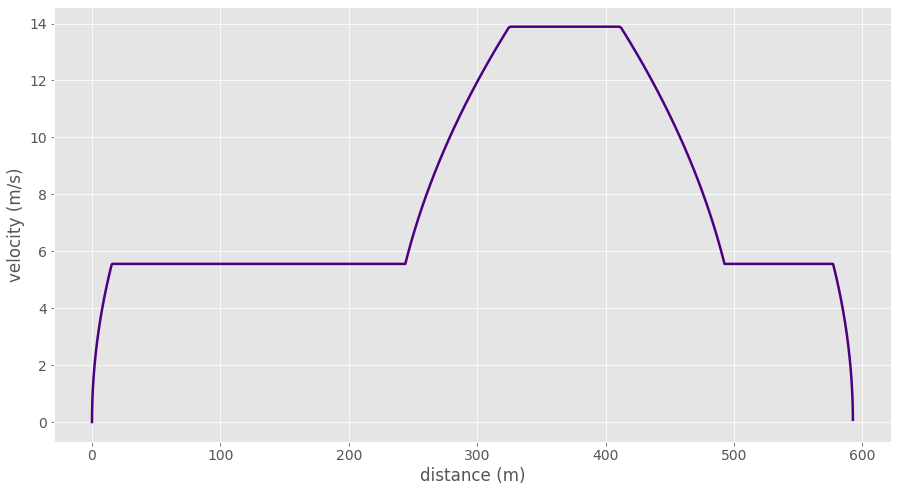
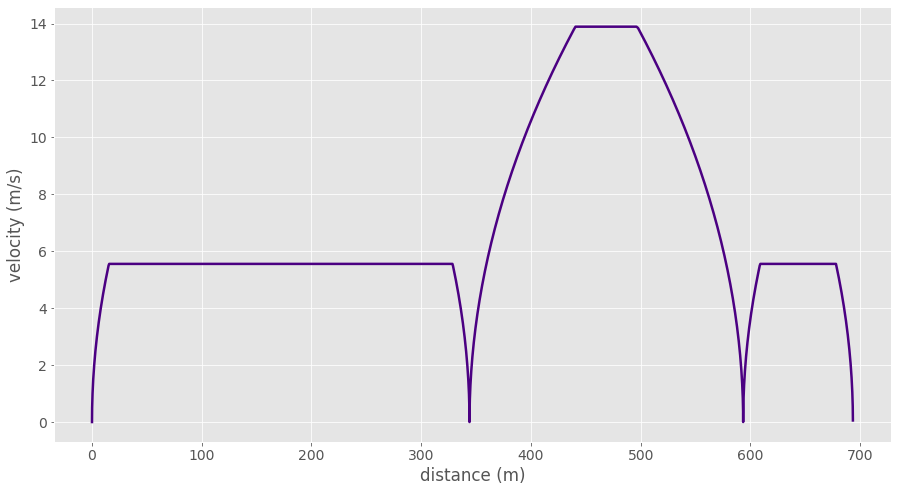
update readme

diff --git a/README.md b/README.md
@@ -1,6 +1,6 @@
 # Drive Cycle
 
-Create a drive cycle for a transit route
+*Drive Cycle* is python library that can be used to simulate trajectories (i.e. drive cycles) for public transit buses which can then be used for tasks like energy consumption simluations. 
 
 ### Installation
 
@@ -16,6 +16,8 @@ from drivecycle.utils import plots
 ```
 
 ### Plot Simple Tragectories
+
+The 'Trajectory' class can be used to generate a trajectory given some contraints such as distance, acceleration and start/end/target velocities. The current release only models constant acceleration trajectories however other models may be added in future. 
 
 ```python
 traj = trajectory.Trajectory(vi=5, v_target=12, vf=8, di=0, df=150, step=0.1)
@@ -39,12 +41,14 @@ plots.plot_vt(traj_values, "plot_vt.png")
 
 ### Generate Drive Cycle
 
+Trajectories are grouped together to form drive cycles of given path. See [sample](#sample-path-input) drive cycle input path. The `Drivecycle` class may include a `stops` parameter which constrains which nodes (i.e. street interseciton or bus stops) the vehicle must stop at and for how long. 
+
 ```python
 # What nodes should we stop at and for how long (seconds)
 stop={"bus_stop":30,"tertiary":10}
 
 # Generate route drive cycle
-route_drive_cycle = drivecycle.get_drivecycle(path, stops=stop, stop_at_node=True, step=1)
+route_drive_cycle = drivecycle.get_drivecycle(path, stops=stop, stop_at_node=True, step=0.1)
 ```
 
 #### Velocity - Distance Plot
@@ -59,9 +63,9 @@ route_drive_cycle = drivecycle.get_drivecycle(path, stops=stop, stop_at_node=Tru
 
 ![DT-Plot](/images/drivecycle_dt.png)
 
-#### Sample input
+### Sample Path Input
 
-A path graph is created using OpenStreetMap (OSM) taxonomy. `intersection` denotes end node intersect edge type as used in OSM. For example `"intersection":["primary"]` indicates a primary road intersecting the end node.
+A path graph data structure is created using OpenStreetMap (OSM) taxonomy. `intersection` denotes the edge that intersects the end node and may be another OSM `way` or simply a bus stop. For example `"intersection":["primary"]` indicates a primary road intersecting the end node. 
 
 ```python
 path = [
@@ -77,17 +81,22 @@ path = [
         "length":145,
         "intersection":["primary"]
     },
-        {
+    {
+        "speed":20,
+        "length":100,
+        "intersection":["bus_stop"]
+    },
+    {
         "way_id":3,
         "speed":50,
         "length":150,
         "intersection":["primary"]
     },
-        {
+    {
         "way_id":4,
         "speed":50,
         "length":100,
-        "intersection":["secondary"]
+        "intersection":["tertiary"]
     },
     {
         "way_id":5,
@@ -96,9 +105,12 @@ path = [
         "intersection":["service","service"]
     }
 ]
+
 ```
 
-### Generate path graph from input
+### Generate Path Graph
+
+Drive Cycle include utils that can used to generate graphs usting `networkx`. These are helpful to simplify path graphs to reduce redundant nodes and edges that may break the `Trajectory` or `Drivecycle` classes. It can also be used to embed stop in a give path graph. 
 
 ```python
 
